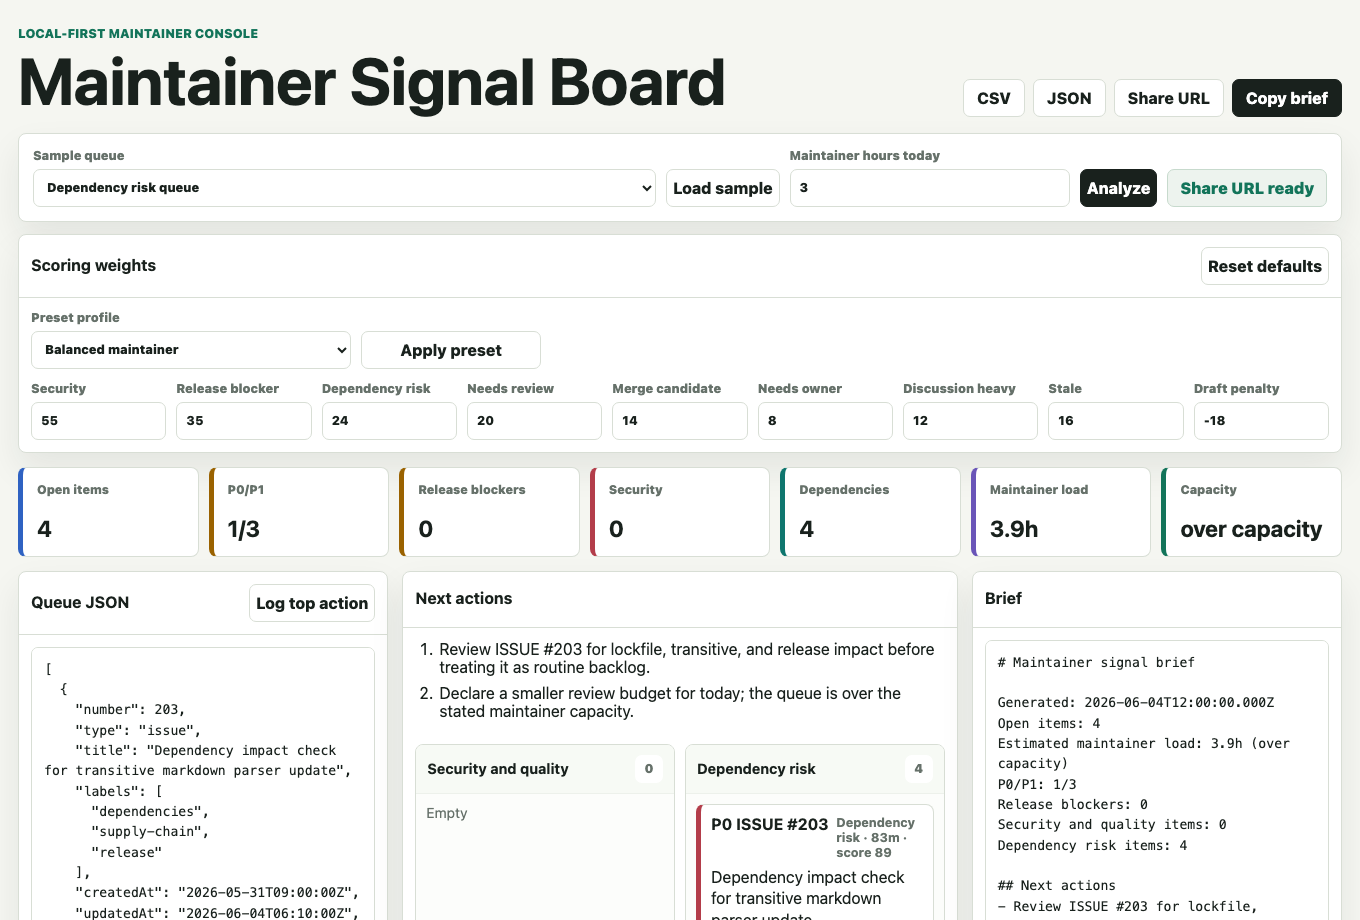
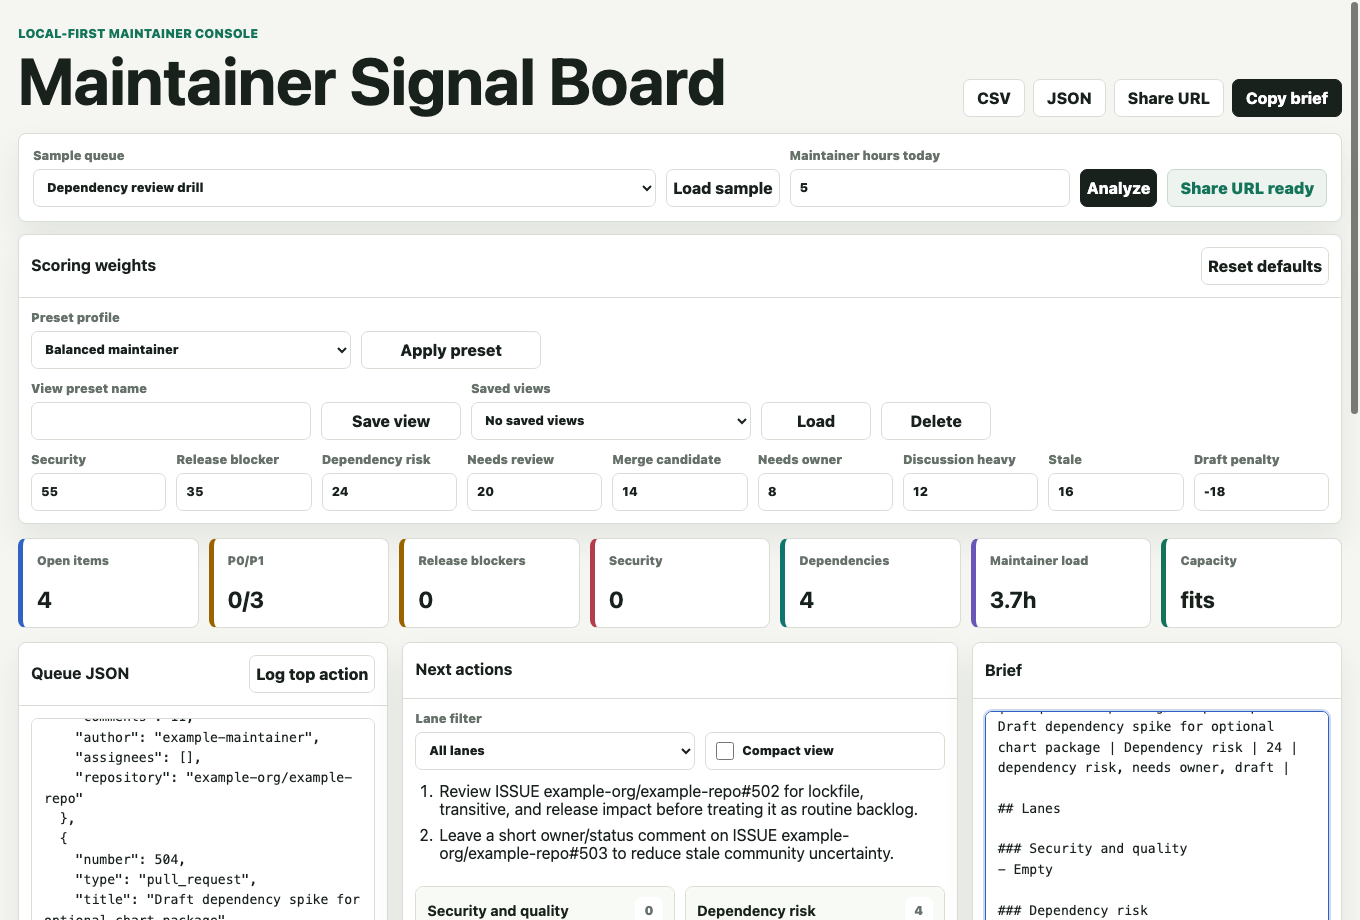
Add saved view presets

diff --git a/src/app.js b/src/app.js
@@ -11,6 +11,7 @@ import {
 
 const STORAGE_KEY = "maintainer-signal-board-v1";
 const LOG_KEY = "maintainer-signal-board-log-v1";
+const PRESETS_KEY = "maintainer-signal-board-presets-v1";
 const DEFAULT_PROFILE_ID = "balanced";
 const WEIGHT_FIELDS = [
   { key: "security", label: "Security", min: 0, max: 100 },
@@ -33,6 +34,11 @@ const elements = {
   capacity: document.querySelector("[data-testid='capacity-hours']"),
   profile: document.querySelector("[data-testid='weight-profile']"),
   applyProfile: document.querySelector("[data-testid='apply-profile']"),
+  presetName: document.querySelector("[data-testid='preset-name']"),
+  presetSelect: document.querySelector("[data-testid='preset-select']"),
+  savePreset: document.querySelector("[data-testid='save-preset']"),
+  loadPreset: document.querySelector("[data-testid='load-preset']"),
+  deletePreset: document.querySelector("[data-testid='delete-preset']"),
   weights: document.querySelector("[data-testid='scoring-weights']"),
   resetWeights: document.querySelector("[data-testid='reset-weights']"),
   input: document.querySelector("[data-testid='queue-input']"),
@@ -90,6 +96,10 @@ function bindControls() {
     saveState();
     runAnalysis("Profile applied");
   });
+
+  elements.savePreset.addEventListener("click", saveViewPreset);
+  elements.loadPreset.addEventListener("click", loadSelectedPreset);
+  elements.deletePreset.addEventListener("click", deleteSelectedPreset);
 
   elements.weights.addEventListener("input", (event) => {
     const key = event.target.dataset.weightKey;
@@ -158,6 +168,7 @@ function renderInitial() {
   elements.capacity.value = state.capacityHours;
   elements.compactView.checked = Boolean(state.compactView);
   renderWeightControls();
+  renderPresetControls();
   elements.input.value = state.queueText;
   runAnalysis("Ready");
   renderEvidenceLog();
@@ -273,6 +284,72 @@ function renderWeightControls() {
       </label>
     `;
   }).join("");
+}
+
+function renderPresetControls(selectedId = elements.presetSelect.value) {
+  const presets = getViewPresets();
+  elements.presetSelect.innerHTML = presets.length
+    ? presets.map((preset) => option(preset.id, preset.name, selectedId)).join("")
+    : '<option value="">No saved views</option>';
+  const hasPresets = presets.length > 0;
+  elements.loadPreset.disabled = !hasPresets;
+  elements.deletePreset.disabled = !hasPresets;
+  if (hasPresets && !presets.some((preset) => preset.id === elements.presetSelect.value)) {
+    elements.presetSelect.value = presets[0].id;
+  }
+}
+
+function saveViewPreset() {
+  const name = elements.presetName.value.trim().slice(0, 48);
+  if (!name) {
+    setStatus("Name the view");
+    elements.presetName.focus();
+    return;
+  }
+
+  const presets = getViewPresets().filter((preset) => preset.name.toLowerCase() !== name.toLowerCase());
+  const preset = {
+    v: 1,
+    id: makePresetId(name),
+    name,
+    updatedAt: new Date().toISOString(),
+    capacityHours: state.capacityHours,
+    profileId: state.profileId,
+    weights: normalizeWeightState(state.weights),
+    laneFilter: state.laneFilter,
+    compactView: Boolean(state.compactView)
+  };
+  presets.unshift(preset);
+  writeViewPresets(presets.slice(0, 12));
+  elements.presetName.value = "";
+  renderPresetControls(preset.id);
+  setStatus("View saved");
+}
+
+function loadSelectedPreset() {
+  const preset = getViewPresets().find((item) => item.id === elements.presetSelect.value);
+  if (!preset) return;
+  state.capacityHours = preset.capacityHours || SAMPLE_QUEUES[0].capacityHours;
+  state.profileId = WEIGHT_PROFILES[preset.profileId] ? preset.profileId : "custom";
+  state.weights = normalizeWeightState(preset.weights);
+  state.laneFilter = preset.laneFilter || "all";
+  state.compactView = Boolean(preset.compactView);
+  elements.capacity.value = state.capacityHours;
+  elements.profile.value = state.profileId;
+  elements.compactView.checked = state.compactView;
+  renderWeightControls();
+  saveState();
+  if (latestAnalysis) renderAnalysis(latestAnalysis);
+  setStatus("View loaded");
+}
+
+function deleteSelectedPreset() {
+  const selectedId = elements.presetSelect.value;
+  if (!selectedId) return;
+  const presets = getViewPresets().filter((preset) => preset.id !== selectedId);
+  writeViewPresets(presets);
+  renderPresetControls();
+  setStatus("View deleted");
 }
 
 function addEvidenceLog() {
@@ -431,6 +508,34 @@ function getEvidenceLog() {
   }
 }
 
+function getViewPresets() {
+  try {
+    const parsed = JSON.parse(localStorage.getItem(PRESETS_KEY));
+    if (!Array.isArray(parsed)) return [];
+    return parsed
+      .filter((preset) => preset && preset.v === 1 && typeof preset.name === "string")
+      .map((preset) => ({
+        ...preset,
+        id: preset.id || makePresetId(preset.name),
+        name: preset.name.slice(0, 48),
+        weights: normalizeWeightState(preset.weights),
+        laneFilter: preset.laneFilter || "all",
+        compactView: Boolean(preset.compactView)
+      }))
+      .slice(0, 12);
+  } catch {
+    return [];
+  }
+}
+
+function writeViewPresets(presets) {
+  try {
+    localStorage.setItem(PRESETS_KEY, JSON.stringify(presets));
+  } catch {
+    // Private windows may block storage.
+  }
+}
+
 function normalizeWeightState(input) {
   const weights = { ...DEFAULT_WEIGHTS };
   if (!input || typeof input !== "object") return weights;
@@ -495,6 +600,11 @@ function weightTestId(key) {
 
 function clampNumber(value, min, max) {
   return Math.min(max, Math.max(min, value));
+}
+
+function makePresetId(name) {
+  const slug = name.toLowerCase().replaceAll(/[^a-z0-9]+/g, "-").replaceAll(/^-|-$/g, "") || "view";
+  return `${slug}-${Date.now().toString(36)}`;
 }
 
 function downloadFile(filename, content, type) {

diff --git a/index.html b/index.html
@@ -52,6 +52,19 @@
           </label>
           <button type="button" data-testid="apply-profile">Apply preset</button>
         </div>
+        <div class="preset-row">
+          <label>
+            <span>View preset name</span>
+            <input data-testid="preset-name" type="text" maxlength="48" autocomplete="off" />
+          </label>
+          <button type="button" data-testid="save-preset">Save view</button>
+          <label>
+            <span>Saved views</span>
+            <select data-testid="preset-select"></select>
+          </label>
+          <button type="button" data-testid="load-preset">Load</button>
+          <button type="button" data-testid="delete-preset">Delete</button>
+        </div>
         <div class="weights-grid" data-testid="scoring-weights"></div>
       </section>
 

diff --git a/styles.css b/styles.css
@@ -144,6 +144,15 @@ h3 {
   padding: 12px 12px 0;
 }
 
+.preset-row {
+  display: grid;
+  grid-template-columns: minmax(200px, 280px) minmax(110px, 140px) minmax(200px, 280px) minmax(86px, 110px) minmax(86px, 110px);
+  gap: 10px;
+  align-items: end;
+  justify-content: start;
+  padding: 12px 12px 0;
+}
+
 .weights-grid label {
   min-width: 0;
 }
@@ -545,6 +554,14 @@ textarea {
     grid-template-columns: 1fr;
   }
 
+  .preset-row {
+    grid-template-columns: 1fr 1fr;
+  }
+
+  .preset-row label {
+    grid-column: 1 / -1;
+  }
+
   .board-controls {
     grid-template-columns: 1fr;
   }
@@ -573,6 +590,10 @@ textarea {
   }
 
   .weights-grid {
+    grid-template-columns: 1fr;
+  }
+
+  .preset-row {
     grid-template-columns: 1fr;
   }
 }

diff --git a/README.md b/README.md
@@ -14,7 +14,7 @@ Live demo: <https://bte808.github.io/maintainer-signal-board/>
 
 ## Project Status
 
-Maintainer Signal Board is an early `v0.6.0` static OSS tool. It is built to demonstrate a practical maintainer workflow, not to claim broad adoption or critical ecosystem status. The sample data is synthetic, and this project is not affiliated with OpenAI or endorsed by OpenAI.
+Maintainer Signal Board is an early `v0.7.0` static OSS tool. It is built to demonstrate a practical maintainer workflow, not to claim broad adoption or critical ecosystem status. The sample data is synthetic, and this project is not affiliated with OpenAI or endorsed by OpenAI.
 
 Maintenance signals:
 
@@ -24,6 +24,7 @@ Maintenance signals:
 - Core scoring tests and desktop/mobile browser verification.
 - Adjustable scoring weights for different maintainer styles.
 - Preset scoring profiles for balanced, release, review, dependency, and community queues.
+- Saved view presets for recurring review rituals.
 - Shareable local queue URLs stored in the browser URL hash.
 - Dependency-risk heuristics for dependency and lockfile triage.
 - Synthetic drill queues for release candidate, security hardening, and dependency review practice.
@@ -50,6 +51,7 @@ It is useful for:
 - Normalizes common GitHub-style fields such as `number`, `type`, `labels`, `created_at`, `updated_at`, `review_decision`, `mergeable`, `draft`, and `milestone`.
 - Scores queue items from visible signals: security/privacy wording, release blockers, dependency-risk wording, stale age, review state, ownership, discussion load, and merge readiness.
 - Lets maintainers apply scoring profiles, adjust scoring weights, and reset to documented defaults.
+- Saves, loads, and deletes local view presets containing capacity, scoring profile, weights, lane filter, and compact-view settings.
 - Creates shareable local URLs for synthetic or sanitized queues without sending data to a server.
 - Filters the board to a single maintainer lane and offers a compact view for larger queues.
 - Supports keyboard shortcuts for repeated lane review when no form field is focused.
@@ -89,6 +91,16 @@ Shortcuts are inactive while an input, textarea, select, button, or editable reg
 - `Alt+ArrowLeft`: move focus to the previous visible lane.
 - `Alt+C`: toggle compact view.
 - `Alt+B`: copy the current maintainer brief.
+
+## Saved View Presets
+
+Saved view presets store only capacity, scoring profile, scoring weights, lane filter, and compact-view settings. They do not store the pasted queue, evidence log, exports, account data, tokens, or the full preset list inside Share URLs.
+
+The documented local browser storage keys are:
+
+- `maintainer-signal-board-v1` for the current draft queue and active view.
+- `maintainer-signal-board-log-v1` for the local evidence log.
+- `maintainer-signal-board-presets-v1` for saved view presets.
 
 ## Input Shape
 
@@ -171,13 +183,9 @@ SAVE_SCREENSHOT=docs/demo.png npm run verify:browser
 - [Security policy](SECURITY.md)
 - [Code of conduct](CODE_OF_CONDUCT.md)
 
-## Roadmap
-
-- Add [saved view presets for recurring maintainer rituals](https://github.com/bte808/maintainer-signal-board/issues/12).
-
 ## Security and Privacy
 
-Maintainer Signal Board does not require an account, API key, backend service, analytics script, or hosted font. Draft input and evidence-log entries stay in browser `localStorage`; exports are generated locally.
+Maintainer Signal Board does not require an account, API key, backend service, analytics script, or hosted font. Draft input, evidence-log entries, and saved view presets stay in browser `localStorage`; exports are generated locally.
 
 For security-sensitive reports, follow [SECURITY.md](SECURITY.md) and avoid posting sensitive details publicly.
 

diff --git a/docs/maintenance-log.md b/docs/maintenance-log.md
@@ -2,6 +2,28 @@
 
 This log records verified maintainer rounds for small public releases. It is intentionally factual: no adoption claims, no external endorsement claims, and no private queue data.
 
+## 2026-06-05 - saved view preset maintenance
+
+1. View presets
+   - Added local save, load, and delete controls for recurring maintainer review setups.
+   - Presets store capacity, scoring profile, scoring weights, lane filter, and compact-view state.
+   - Presets do not store pasted queue text, evidence-log entries, exports, tokens, account data, or the full preset list in Share URLs.
+
+2. Local-first storage
+   - Documented `maintainer-signal-board-v1`, `maintainer-signal-board-log-v1`, and `maintainer-signal-board-presets-v1`.
+   - Kept runtime dependencies at zero and did not add a backend, analytics script, account system, or API key flow.
+
+3. Browser verification
+   - Expanded desktop and mobile browser checks to save, load, and delete one view preset.
+   - Kept the mobile overflow check at `390 x 844`.
+
+Verification for this round:
+
+```bash
+npm run validate
+git diff --check
+```
+
 ## 2026-06-05 - keyboard shortcut maintenance
 
 1. Lane review shortcuts

diff --git a/CHANGELOG.md b/CHANGELOG.md
@@ -1,5 +1,12 @@
 # Changelog
 
+## 0.7.0 - 2026-06-05
+
+- Added saved view presets for recurring maintainer rituals.
+- Stored presets locally under the documented `maintainer-signal-board-presets-v1` key without adding backend, analytics, account, token, or runtime dependencies.
+- Kept Share URLs focused on the active board view and out of the full saved preset list.
+- Expanded static and browser verification for saving, loading, and deleting one preset.
+
 ## 0.6.0 - 2026-06-05
 
 - Added keyboard shortcuts for repeated lane review: next lane, previous lane, compact-view toggle, and maintainer brief copy.
